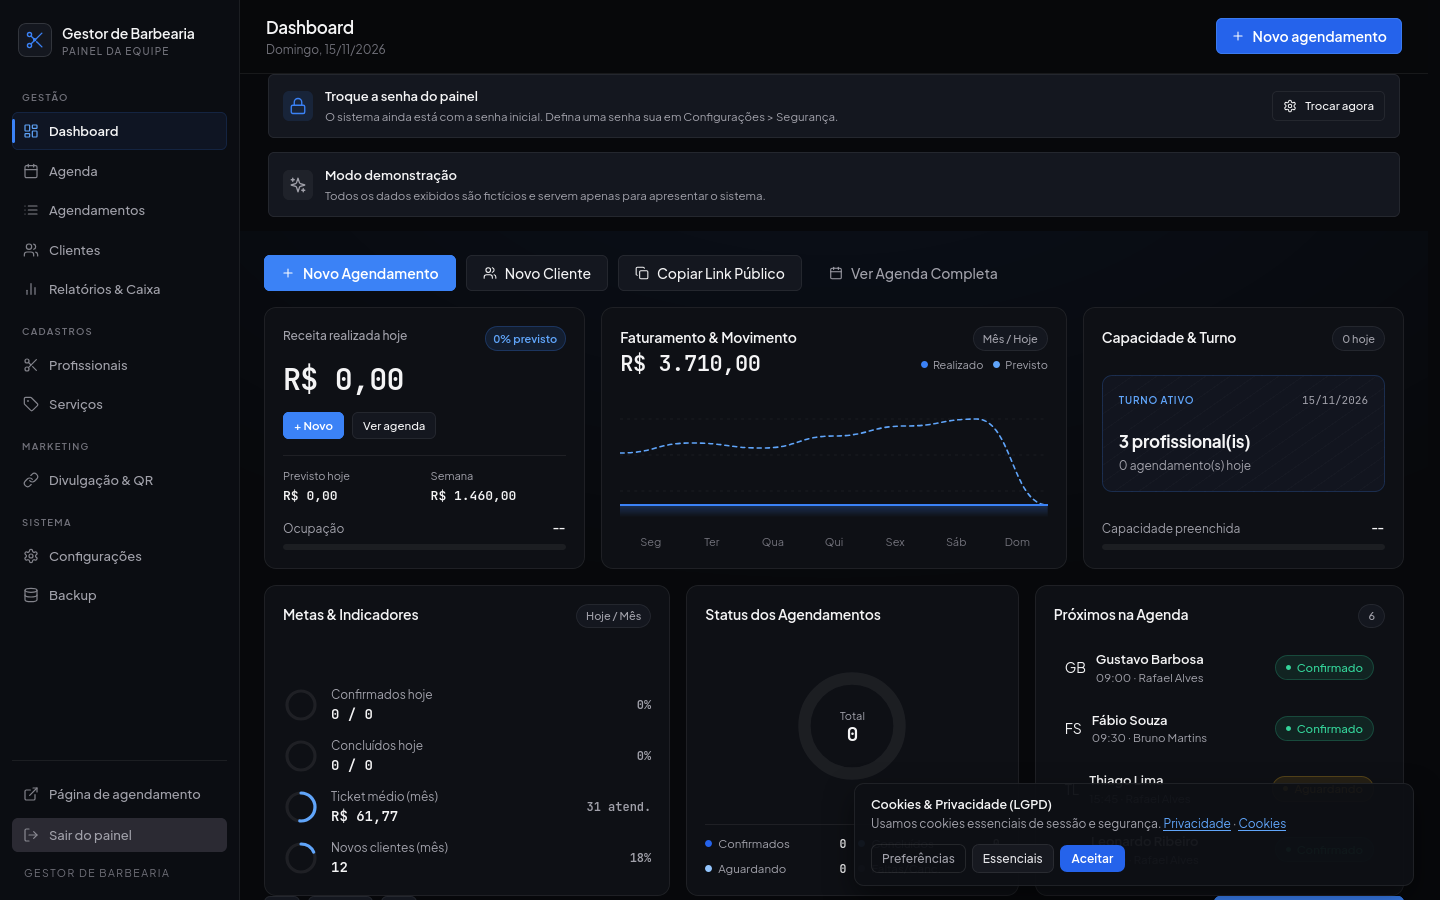
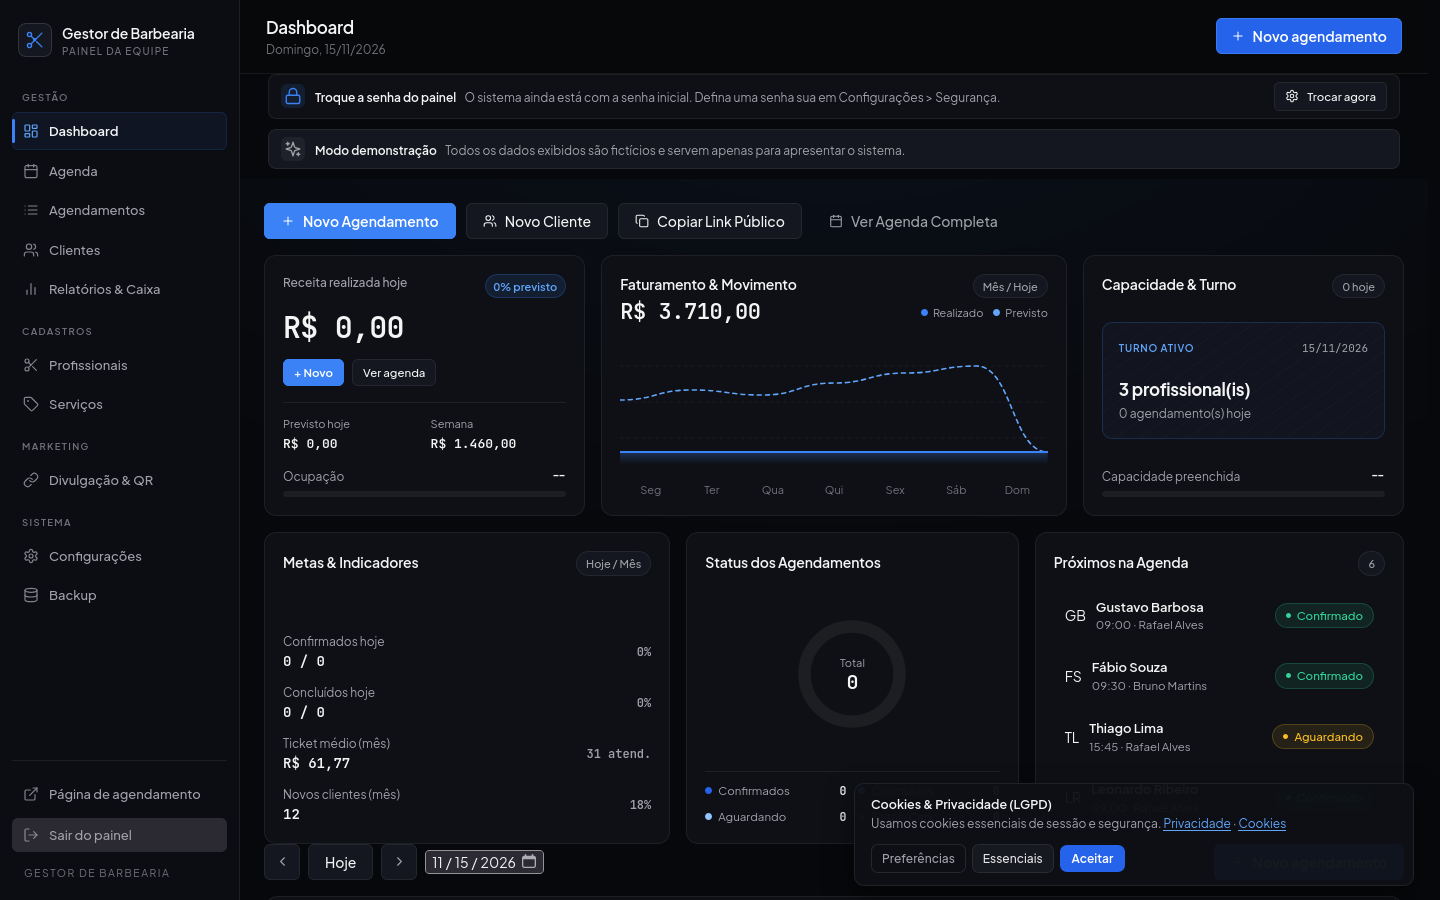
style(ui): eliminate remaining AI rings/notices/shapes across dashboard, booking & landing

diff --git a/public/apresentacao.html b/public/apresentacao.html
@@ -1370,7 +1370,6 @@
             <p class="ice-sub">
               Acompanhe demanda por horário, receita prevista e fila do dia em uma única tela limpa.
             </p>
-            <span class="signal-pill">● Operação sincronizada em tempo real</span>
           </div>
 
           <div class="period-switch" role="tablist" aria-label="Período de telemetria">
@@ -1423,13 +1422,29 @@
                 </div>
               </div>
             </div>
-            <svg viewBox="0 0 280 96" width="100%" height="96" fill="none" aria-hidden="true">
-              <path d="M0 18 C70 18, 95 30, 140 30 C185 30, 210 24, 280 24 L280 72 C210 72, 185 66, 140 66 C95 66, 70 78, 0 78 Z" fill="rgba(37, 99, 235, 0.14)"/>
-              <path d="M0 32 C70 32, 95 40, 140 40 C185 40, 210 34, 280 34 L280 62 C210 62, 185 56, 140 56 C95 56, 70 64, 0 64 Z" fill="rgba(59, 130, 246, 0.28)"/>
-              <circle cx="52" cy="48" r="14" fill="#2563EB"/>
-              <circle cx="140" cy="48" r="11" fill="#3B82F6"/>
-              <circle cx="228" cy="48" r="13" fill="#1D4ED8"/>
-            </svg>
+            <div style="display:grid;gap:10px;padding-top:4px">
+              <div style="display:grid;grid-template-columns:1fr auto;gap:8px;align-items:center;font-size:12px">
+                <span style="color:#A1A1AA">Reservas pelo link</span>
+                <strong class="mono" style="color:#F4F4F5">100%</strong>
+              </div>
+              <div style="height:6px;border-radius:999px;background:#181D27;overflow:hidden">
+                <div style="width:100%;height:100%;background:#1E3A8A;border-radius:999px"></div>
+              </div>
+              <div style="display:grid;grid-template-columns:1fr auto;gap:8px;align-items:center;font-size:12px">
+                <span style="color:#A1A1AA">Confirmados via WhatsApp</span>
+                <strong class="mono" style="color:#60A5FA">96,4%</strong>
+              </div>
+              <div style="height:6px;border-radius:999px;background:#181D27;overflow:hidden">
+                <div style="width:96.4%;height:100%;background:#3B82F6;border-radius:999px"></div>
+              </div>
+              <div style="display:grid;grid-template-columns:1fr auto;gap:8px;align-items:center;font-size:12px">
+                <span style="color:#A1A1AA">Fechados no caixa</span>
+                <strong class="mono" style="color:#34D399">94,1%</strong>
+              </div>
+              <div style="height:6px;border-radius:999px;background:#181D27;overflow:hidden">
+                <div style="width:94.1%;height:100%;background:#10B981;border-radius:999px"></div>
+              </div>
+            </div>
           </div>
 
           <!-- Card 3: Live Digest -->

diff --git a/public/css/app.css b/public/css/app.css
@@ -2132,22 +2132,22 @@ input[type='date'], input[type='time'] { color-scheme: dark; }
 
 .shop-quick-actions {
   display: flex;
-  gap: 10px;
-  padding: 0 20px 18px;
+  gap: 6px;
+  padding: 0 20px 14px;
   flex-wrap: wrap;
 }
 
 .shop-action-btn {
   display: inline-flex;
   align-items: center;
-  gap: 6px;
-  padding: 8px 14px;
-  border-radius: 10px;
-  font-size: 12px;
-  font-weight: 600;
+  gap: 5px;
+  padding: 6px 10px;
+  border-radius: 7px;
+  font-size: 11.5px;
+  font-weight: 500;
   text-decoration: none;
   transition: all 0.15s ease;
-  min-height: 38px;
+  min-height: 32px;
 }
 
 .shop-action-btn.whats {
@@ -3065,35 +3065,35 @@ input[type='date'], input[type='time'] { color-scheme: dark; }
 .notice {
   display: flex;
   align-items: center;
-  gap: 12px;
-  margin: 0 28px 14px;
-  padding: 12px 14px;
+  gap: 10px;
+  margin: 0 28px 10px;
+  padding: 7px 12px;
   border: 1px solid var(--border);
-  border-radius: var(--radius-sm);
-  background: var(--surface-2);
+  border-radius: 8px;
+  background: var(--surface);
 }
 
 .notice-icon {
   display: grid;
   place-items: center;
-  width: 30px;
-  height: 30px;
+  width: 24px;
+  height: 24px;
   flex: none;
-  border-radius: var(--radius-sm);
+  border-radius: 6px;
   background: var(--gold-soft);
   color: var(--gold);
 }
 
 .notice strong {
-  display: block;
-  font-size: 13px;
+  display: inline;
+  font-size: 12px;
   font-weight: 600;
+  margin-right: 6px;
 }
 
 .notice span {
-  display: block;
-  margin-top: 2px;
-  font-size: 11.5px;
+  display: inline;
+  font-size: 12px;
   color: var(--text-dim);
 }
 

diff --git a/public/js/app.js b/public/js/app.js
@@ -655,7 +655,6 @@ async function viewDashboard() {
         </div>
         <div class="finity-goals-list">
           <div class="finity-goal-row">
-            ${ringSvg(confirmPct, '#3B82F6')}
             <div class="finity-goal-info">
               <span>Confirmados hoje</span>
               <strong class="mono">${today.confirmed} / ${today.total}</strong>
@@ -663,7 +662,6 @@ async function viewDashboard() {
             <span class="finity-goal-pct mono">${confirmPct}%</span>
           </div>
           <div class="finity-goal-row">
-            ${ringSvg(completePct, '#34D399')}
             <div class="finity-goal-info">
               <span>Concluídos hoje</span>
               <strong class="mono">${today.completed} / ${today.total}</strong>
@@ -671,7 +669,6 @@ async function viewDashboard() {
             <span class="finity-goal-pct mono">${completePct}%</span>
           </div>
           <div class="finity-goal-row">
-            ${ringSvg(ticketPct, '#60A5FA')}
             <div class="finity-goal-info">
               <span>Ticket médio (mês)</span>
               <strong class="mono">${esc(money(month.average_ticket))}</strong>
@@ -679,7 +676,6 @@ async function viewDashboard() {
             <span class="finity-goal-pct mono">${month.completed} atend.</span>
           </div>
           <div class="finity-goal-row">
-            ${ringSvg(newClientsPct, '#60A5FA')}
             <div class="finity-goal-info">
               <span>Novos clientes (mês)</span>
               <strong class="mono">${month.new_clients}</strong>
